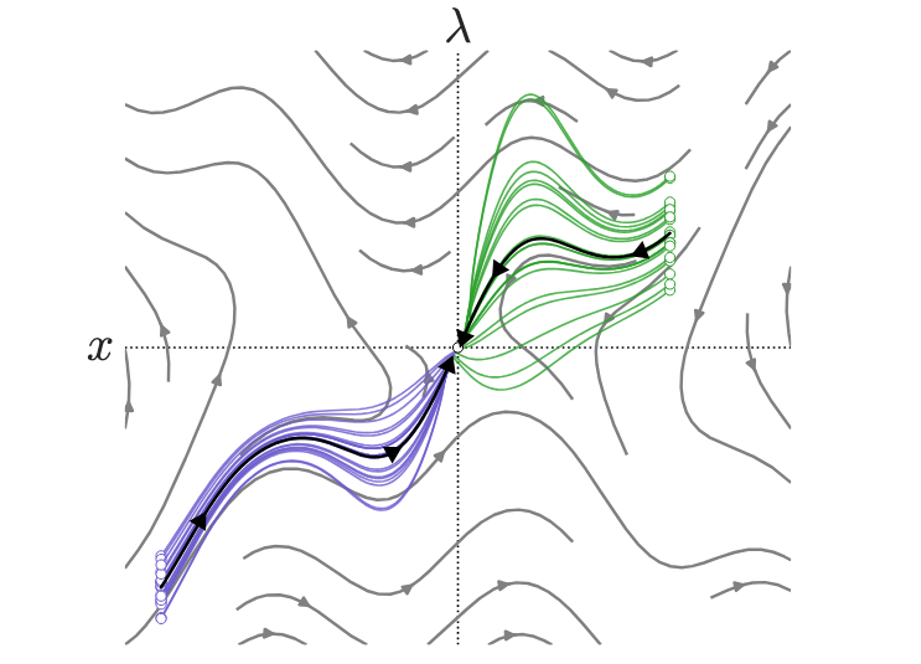
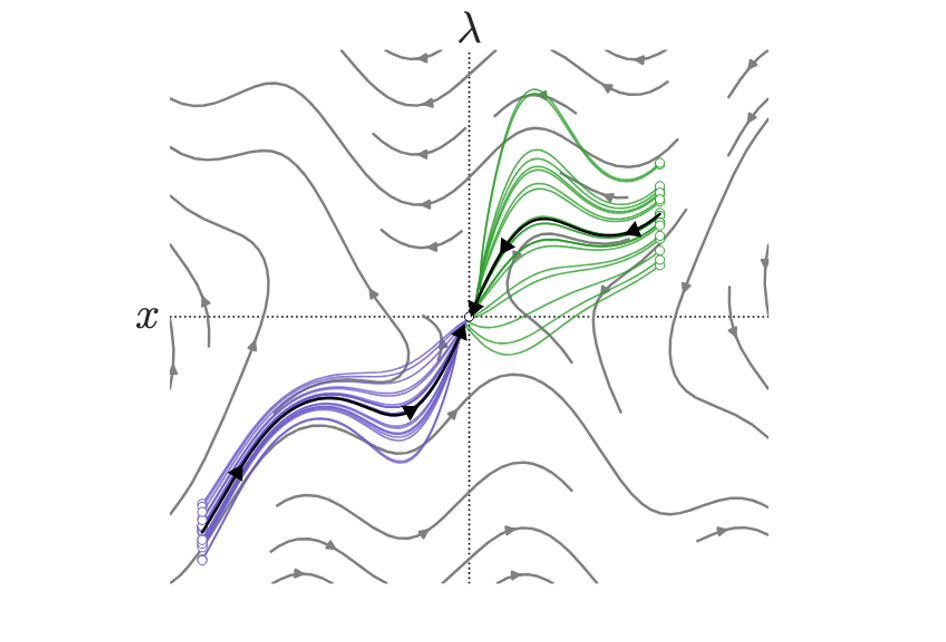
new hsoretend text

diff --git a/_pages/teaching.md b/_pages/teaching.md
@@ -15,9 +15,14 @@ nav_order: 6
   
 
 ### Student Supervision 
-* **Marco Post** (M.Sc. Computing Science, 2024-2025), main supervisor - *Transfer Learning in High-Dimensional Bayesian Optimization*
-* **Luca Pattavina** (M.Sc. Artificial Intelligence, 2025-2026), co-supervisor - *Multi-objective Bayesian Optimization for Laser Dicing*
-* **Adem Kaya** (M.Sc. Artificial Intelligence, 2025-2026), advisor - *Efficient Learning of Neural Policies under Partially Observability.*
+* **Marco Post** (M.Sc.), main supervisor - *Transfer Learning in High-Dimensional Bayesian Optimization*
+* **Luca Pattavina** (M.Sc.), co-supervisor - *Multi-objective Bayesian Optimization for Laser Dicing*
+* **Adem Kaya** (M.Sc.), co-supervisor - *Efficient Learning of Neural Policies under Partially Observability.*
+* **Bart van Hees** (B.Sc), supervisor. *Dynamic Hyperparameter Adaptation in Reinforcement Learning.*
+* **Mark Looman** (B.Sc), supervisor. *Safe Optimization of PID controllers using SafeOPT.*
+* **Konstantinos Konstantinou** (B.Sc), supervisor. *Gaussian Process Classification for Shot-Make Probability in Basketball.*
+* **Kamil Kuit** (B.Sc), supervisor - *LLM detection using Gaussian Processes.*
+* **Thijs van Schaik** (B.Sc), supervisor. *Safe RL via Probabilistic Shielding with Gaussian Processes.*
 
 
 ### Guest Lectures
